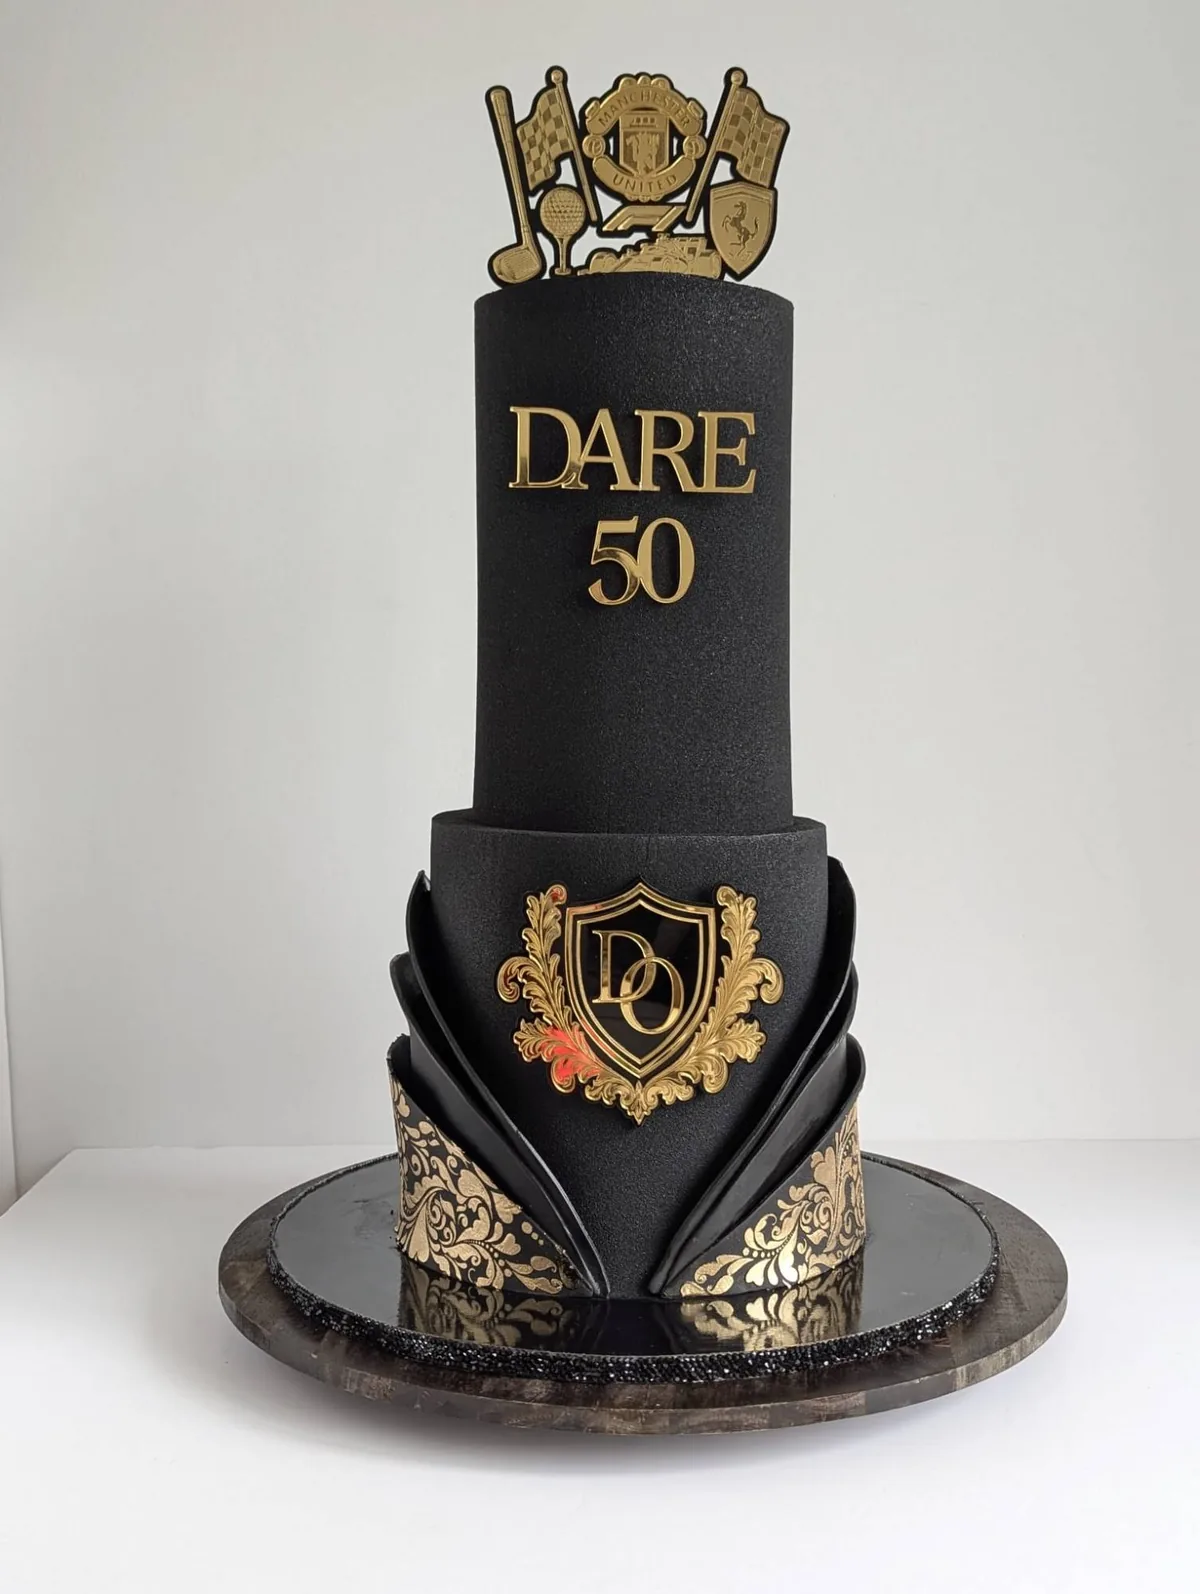
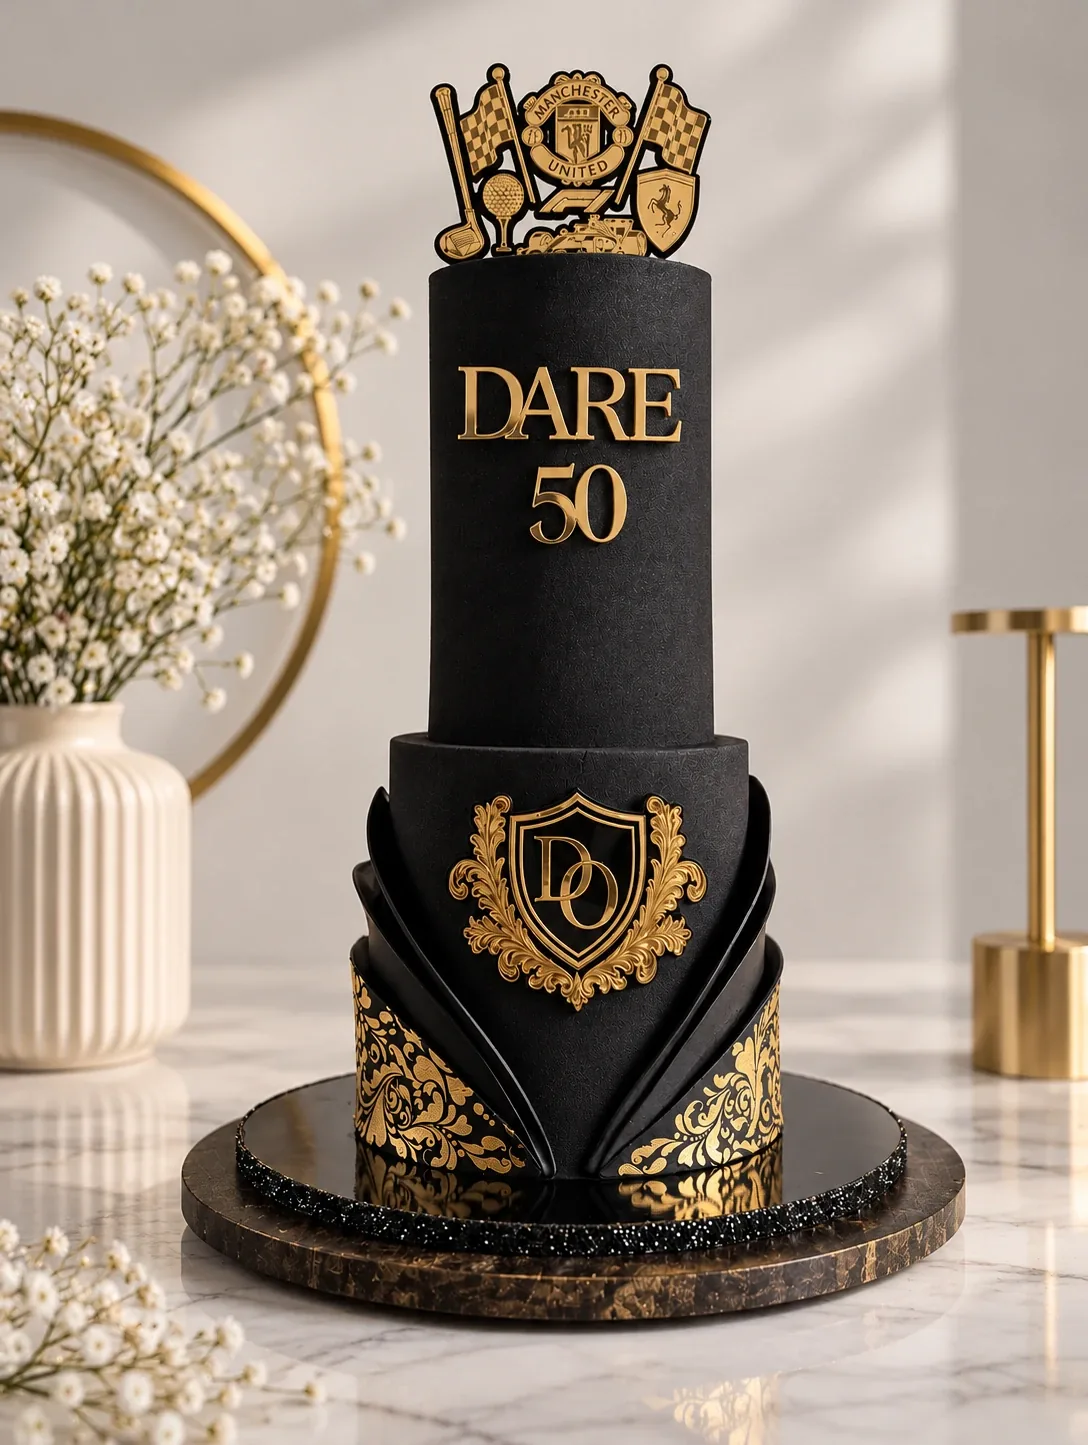
Use new styled photos for the two 50th-birthday cakes
Blush Cascade Fiftieth and Noir & Gold Fiftieth now use the new shots on
a marble table with baby's breath and gold accents. Both also appear in
the hero slider.

Claude-Session: https://claude.ai/code/session_01B18hGjzcXGqxQYRozoZTWB

diff --git a/src/lib/content.ts b/src/lib/content.ts
@@ -83,7 +83,7 @@ export const GALLERY: GalleryItem[] = [
   {
     title: "Blush Cascade Fiftieth",
     category: "Celebration",
-    alt: "Tall two-tier blush pink 50th birthday cake with sculpted fondant waves, a cascade of pink, burgundy and gold sugar roses, and a gold monogram topper",
+    alt: "Tall two-tier blush pink 50th birthday cake with sculpted fondant waves, a cascade of pink, burgundy and gold sugar roses and a gold monogram topper, styled on a marble table with baby's breath and gold accents",
     image: cake("blush-cascade-fifty"),
     featured: true,
   },
@@ -128,7 +128,7 @@ export const GALLERY: GalleryItem[] = [
   {
     title: "Noir & Gold Fiftieth",
     category: "Celebration",
-    alt: "Tall black two-tier 50th birthday cake with gold lettering, a gold crest monogram, black fondant fans with gold damask, and a gold sports-themed topper",
+    alt: "Tall black two-tier 50th birthday cake with gold lettering, a gold crest monogram, black fondant fans with gold damask and a gold sports-themed topper, styled on a marble table with baby's breath and gold accents",
     image: cake("noir-gold-fifty"),
     featured: true,
   },
